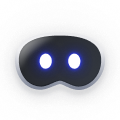
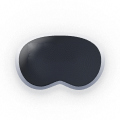
fix(widget): remove printed eyes from pico_bot_icon for seamless CSS overlay eye animation

Changed region(s): [[0.25, 0.375, 0.725, 0.625]]

diff --git a/assets/pico-xr-widget.js b/assets/pico-xr-widget.js
@@ -119,7 +119,7 @@
 
       <button class="pico-bot-float-btn" id="picoBotBtn" aria-label="Open Unity Build Settings" title="Click to view XR Devices in Unity Build Settings">
         <div class="pico-visor-wrapper">
-          <img src="/assets/pico_bot_icon.png" alt="Unity XR Launcher" class="pico-visor-base-img" />
+          <img src="assets/pico_bot_icon.png?v=2" alt="Unity XR Launcher" class="pico-visor-base-img" />
           <div class="pico-visor-eyes-layer">
             <div class="pico-visor-eyes" id="picoEyes">
               <div class="pico-eye pico-eye-left"></div>

diff --git a/index.html b/index.html
@@ -1075,7 +1075,7 @@
     <script id="deferred-react-effects" type="application/json" data-src="assets/timeline-lanyards.bundle.js?v=27"></script>
     <script src="assets/pixel-card.js?v=31"></script>
     <script src="assets/split-flap-text.js?v=7"></script>
-    <script src="assets/pico-xr-widget.js?v=52"></script>
+    <script src="assets/pico-xr-widget.js?v=53"></script>
     <script src="main.js?v=34"></script>
 
     <!-- Google Firebase Real-Time Analytics -->
